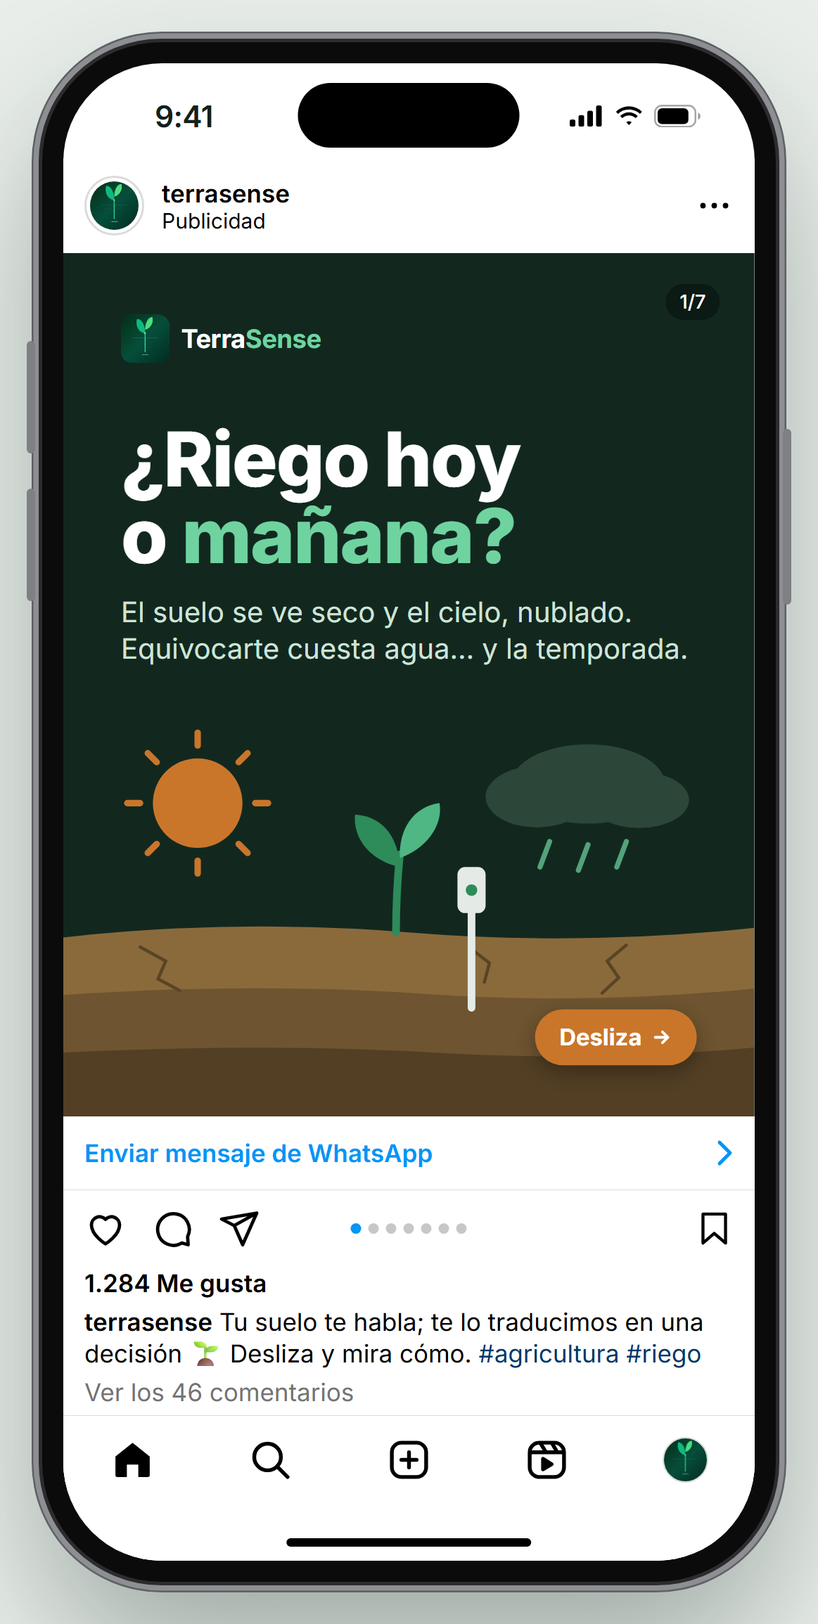
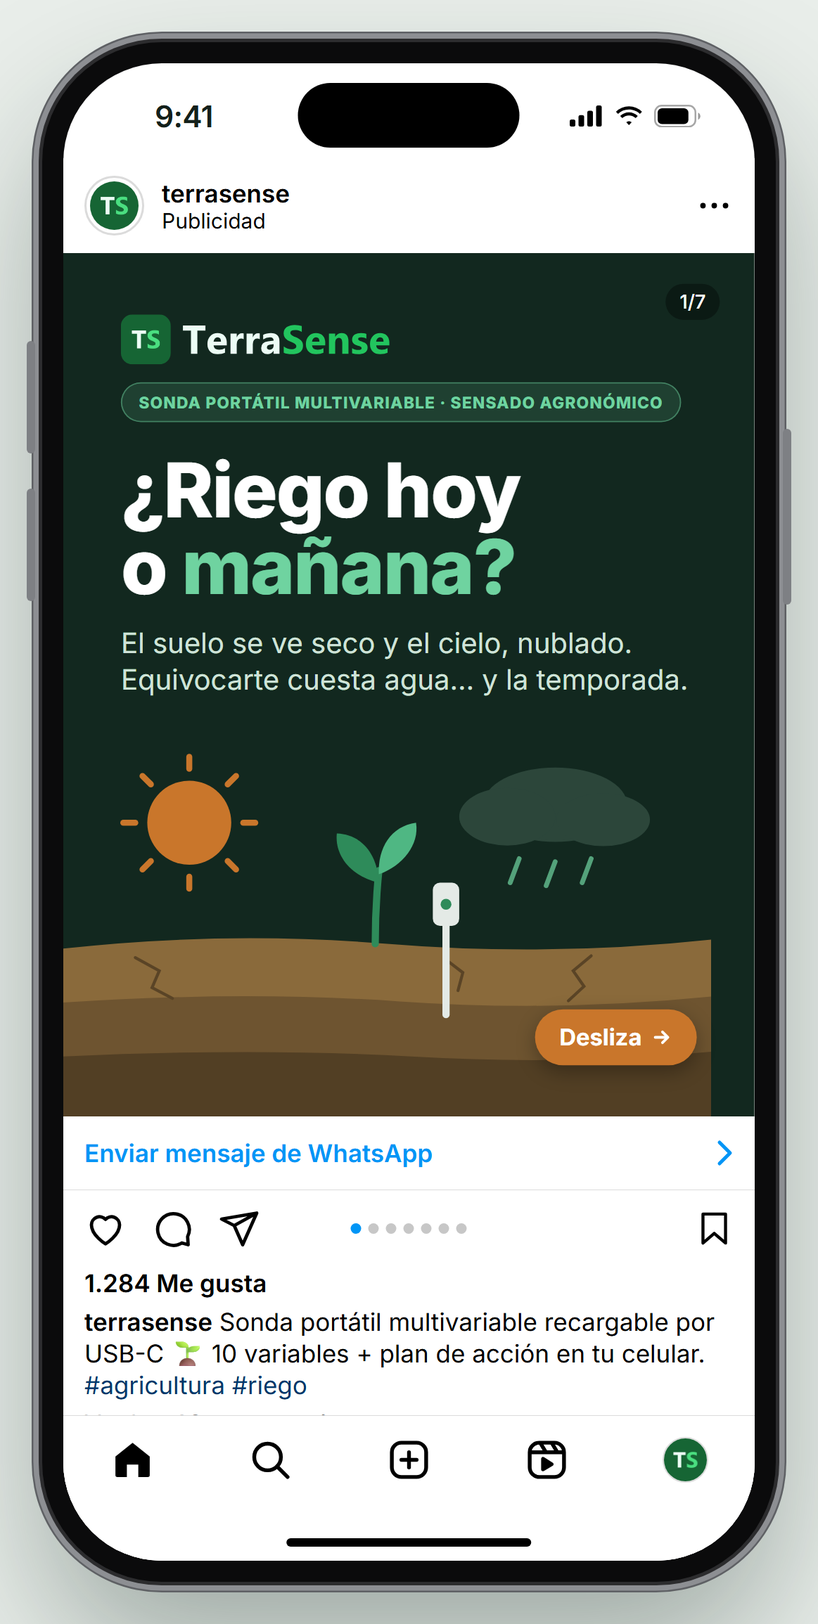
feat(comercializacion): carrusel y figuras actualizadas
Actualiza las láminas del carrusel de la Unidad 2 y agrega el logotipo
con nombre en versión oscura.

diff --git a/Comercializacion de Tecnologias/Unidad 2/Carrusel/carrusel.html b/Comercializacion de Tecnologias/Unidad 2/Carrusel/carrusel.html
@@ -6,7 +6,7 @@
 <link rel="preconnect" href="https://fonts.googleapis.com">
 <link href="https://fonts.googleapis.com/css2?family=Inter:wght@400;500;600;700;800&family=Roboto:wght@400;500;700;900&family=Roboto+Mono:wght@700&display=swap" rel="stylesheet">
 <!--
-  Carrusel publicitario «Del número a la decisión».
+  Carrusel publicitario «Del número a la decisión» — Sonda portátil multivariable para el sensado agronómico.
   Las pantallas de la app reproducen el paso «¿Qué tienes plantado?» de MeasureScreen
   (SpeciesPicker con sus 115 especies en siete grupos) y el plan de recomendaciones de
   MeasurementResultFlow, con los textos que entrega el motor agronómico real para esta
@@ -44,66 +44,74 @@
   .dark .sub, .green .sub { color: #CFE3D8; }
   .hl { color: var(--brote); } .hl-ocre { color: var(--ocre); } .hl-bosque { color: var(--bosque); }
   .brand { display: flex; align-items: center; gap: 18px; font-size: 40px; font-weight: 700; letter-spacing: -.5px; }
-  .brand img { width: 76px; height: 76px; border-radius: 18px; }
+  .brand img.ic-ts { width: 78px; height: 78px; border-radius: 18px; } .brand img.wm-ts { height: 48px; width: auto; }
   .brand .t { color: #fff; } .brand .s { color: var(--brote); }
 
   /* 1. Impacto */
-  .s1 .art { position: absolute; left: 0; right: 0; bottom: 0; height: 640px; }
+  .s1 .art { position: absolute; left: 0; right: 0; bottom: 0; height: 600px; }
+  .prod-pill { display: inline-block; margin-top: 28px; padding: 14px 26px; border-radius: 40px; background: rgba(111,211,160,.14); border: 2px solid rgba(111,211,160,.45); color: var(--brote); font-size: 25px; font-weight: 800; letter-spacing: 1.3px; text-transform: uppercase; align-self: flex-start; }
   .swipe { position: absolute; right: 90px; bottom: 80px; font-size: 36px; font-weight: 700; background: var(--ocre); color: #fff; padding: 22px 38px; border-radius: 60px; display: flex; align-items: center; gap: 14px; box-shadow: 0 10px 30px rgba(0,0,0,.3); }
 
-  /* 2. Problema: medidor genérico */
-  .meter { margin: 40px auto 0; width: 640px; background: #3A3F3D; border-radius: 48px; padding: 46px 46px 60px; box-shadow: 0 30px 60px rgba(0,0,0,.25); }
-  .lcd { background: #B9C7A8; border-radius: 20px; padding: 34px 40px; font-family: 'Roboto Mono', monospace; color: #26301F; box-shadow: inset 0 4px 12px rgba(0,0,0,.25); }
+  /* 2. Problema: medidor genérico vs nodo fijo */
+  .meter { margin: 18px auto 0; width: 610px; background: #3A3F3D; border-radius: 44px; padding: 34px 40px 42px; box-shadow: 0 26px 52px rgba(0,0,0,.25); }
+  .lcd { background: #B9C7A8; border-radius: 20px; padding: 24px 34px; font-family: 'Roboto Mono', monospace; color: #26301F; box-shadow: inset 0 4px 12px rgba(0,0,0,.25); }
   .lcd .ln { display: flex; justify-content: space-between; align-items: baseline; }
-  .lcd .ln + .ln { margin-top: 14px; border-top: 3px dashed rgba(38,48,31,.25); padding-top: 14px; }
-  .lcd .lab { font-size: 34px; font-weight: 700; }
-  .lcd .val { font-size: 92px; font-weight: 700; letter-spacing: -2px; }
-  .meter .btns { display: flex; justify-content: center; gap: 40px; margin-top: 40px; }
-  .meter .btns span { width: 90px; height: 90px; border-radius: 50%; background: #555B58; box-shadow: inset 0 -6px 0 rgba(0,0,0,.3); }
-  .s2 .h2 { margin-top: 70px; text-align: center; font-size: 120px; }
-  .s2 .sub { text-align: center; }
+  .lcd .ln + .ln { margin-top: 12px; border-top: 3px dashed rgba(38,48,31,.25); padding-top: 12px; }
+  .lcd .lab { font-size: 32px; font-weight: 700; }
+  .lcd .val { font-size: 80px; font-weight: 700; letter-spacing: -2px; }
+  .meter .btns { display: flex; justify-content: center; gap: 36px; margin-top: 26px; }
+  .meter .btns span { width: 70px; height: 70px; border-radius: 50%; background: #555B58; box-shadow: inset 0 -6px 0 rgba(0,0,0,.3); }
+  .s2 .h2 { margin-top: 34px; text-align: center; font-size: 100px; }
+  .s2 .sub { text-align: center; font-size: 37px; margin-top: 14px; }
+  .vs-cards { display: grid; grid-template-columns: 1fr 1fr; gap: 22px; margin-top: 28px; }
+  .vs-card { background: #fff; border: 2px solid var(--borde); border-left: 8px solid var(--bad); border-radius: 24px; padding: 20px 24px; }
+  .vs-card b { display: block; font-size: 27px; color: var(--bad); font-weight: 900; margin-bottom: 6px; }
+  .vs-card span { font-size: 24px; color: var(--texto2); line-height: 1.28; display: block; }
   .s2 .more { margin-top: auto; text-align: center; font-size: 34px; font-weight: 700; color: var(--bosque); }
 
   /* 3 y 4. La app dentro de un iPhone que sale por el borde inferior */
-  .s3 .h2, .s4 .h2 { font-size: 74px; }
+  .s3 .h2, .s4 .h2 { font-size: 68px; }
   .app-dock { position: absolute; top: 400px; width: 650px; height: 950px; }
   .app-dock > .iphone { transform: scale(1.5663); transform-origin: top left; }
   /* Escala menor: deja ver más de la pantalla (la lista de especies o el segundo paso del plan). */
-  .app-dock.wide { top: 380px; width: 500px; height: 970px; }
-  .app-dock.wide > .iphone { transform: scale(1.2); }
-  .callout { position: absolute; z-index: 4; background: var(--noche); color: #fff; font-size: 32px; font-weight: 700; line-height: 1.25; padding: 22px 28px; border-radius: 26px; box-shadow: 0 16px 40px rgba(18,40,31,.35); width: 330px; }
+  .app-dock.wide { top: 370px; width: 500px; height: 980px; }
+  .app-dock.wide > .iphone { transform: scale(1.18); }
+  .callout { position: absolute; z-index: 4; background: var(--noche); color: #fff; font-size: 27px; font-weight: 700; line-height: 1.28; padding: 22px 26px; border-radius: 26px; box-shadow: 0 16px 40px rgba(18,40,31,.35); width: 375px; }
   .callout b { color: var(--brote); }
-  .callout::after { content: ''; position: absolute; width: 28px; height: 28px; background: var(--noche); transform: rotate(45deg); }
-  .callout.left::after { right: -12px; top: 40px; }
-  .callout.right::after { left: -12px; top: 40px; }
+  .callout .tag-k { display: block; font-size: 19px; font-weight: 900; letter-spacing: 1.5px; text-transform: uppercase; color: var(--ocre); margin-bottom: 6px; }
+  .callout::after { content: ''; position: absolute; width: 26px; height: 26px; background: var(--noche); transform: rotate(45deg); }
+  .callout.left::after { right: -11px; top: 38px; }
+  .callout.right::after { left: -11px; top: 38px; }
 
-  /* 5. Beneficios */
-  .grid4 { display: grid; grid-template-columns: 1fr 1fr; gap: 26px; margin-top: 56px; }
-  .ben { background: rgba(255,255,255,.08); border: 2px solid rgba(111,211,160,.35); border-radius: 36px; padding: 34px; }
-  .ben .ic { width: 96px; height: 96px; border-radius: 28px; background: var(--brote); display: grid; place-items: center; }
-  .ben h3 { font-size: 42px; font-weight: 900; margin-top: 22px; line-height: 1.08; }
-  .ben p { font-size: 30px; margin-top: 12px; color: #CFE3D8; line-height: 1.3; }
+  /* 5. Beneficios (6 virtudes clave) */
+  .grid6 { display: grid; grid-template-columns: 1fr 1fr; gap: 20px; margin-top: 32px; }
+  .ben { background: rgba(255,255,255,.08); border: 2px solid rgba(111,211,160,.35); border-radius: 28px; padding: 22px 26px; display: flex; flex-direction: column; }
+  .ben-head { display: flex; align-items: center; gap: 16px; }
+  .ben .ic { width: 66px; height: 66px; border-radius: 20px; background: var(--brote); display: grid; place-items: center; flex: none; }
+  .ben h3 { font-size: 31px; font-weight: 900; line-height: 1.12; }
+  .ben p { font-size: 24px; margin-top: 10px; color: #CFE3D8; line-height: 1.28; }
 
   /* 6. Prueba */
-  .bars { margin-top: 70px; }
-  .bar { margin-bottom: 46px; }
-  .bar .lab { font-size: 36px; font-weight: 700; margin-bottom: 16px; }
-  .bar .lab small { font-weight: 400; color: var(--texto2); font-size: 30px; display: block; margin-top: 4px; }
-  .bar .track { height: 110px; background: #E1E8E2; border-radius: 26px; overflow: hidden; }
-  .bar .fill { height: 100%; border-radius: 26px; display: flex; align-items: center; justify-content: flex-end; padding-right: 30px; font-size: 48px; font-weight: 900; color: #fff; }
-  .note { font-size: 28px; color: var(--texto2); line-height: 1.35; }
-  .badges { display: flex; gap: 22px; margin-top: auto; }
-  .badge { flex: 1; text-align: center; background: var(--tarjeta); border: 2px solid var(--borde); border-radius: 30px; padding: 30px 14px; }
-  .badge b { display: block; font-size: 50px; font-weight: 900; color: var(--bosque); }
-  .badge span { font-size: 28px; color: var(--texto2); }
+  .bars { margin-top: 36px; }
+  .bar { margin-bottom: 22px; }
+  .bar .lab { font-size: 29px; font-weight: 700; margin-bottom: 8px; display: flex; justify-content: space-between; align-items: baseline; }
+  .bar .lab small { font-weight: 500; color: var(--texto2); font-size: 23px; }
+  .bar .track { height: 74px; background: #E1E8E2; border-radius: 20px; overflow: hidden; }
+  .bar .fill { height: 100%; border-radius: 20px; display: flex; align-items: center; justify-content: flex-end; padding-right: 24px; font-size: 36px; font-weight: 900; color: #fff; }
+  .note { font-size: 24px; color: var(--texto2); line-height: 1.32; margin-top: 8px; }
+  .badges { display: flex; gap: 20px; margin-top: auto; }
+  .badge { flex: 1; text-align: center; background: var(--tarjeta); border: 2px solid var(--borde); border-radius: 26px; padding: 22px 12px; }
+  .badge b { display: block; font-size: 42px; font-weight: 900; color: var(--bosque); }
+  .badge span { font-size: 24px; color: var(--texto2); }
 
   /* 7. Acción */
   .s7 { align-items: center; text-align: center; justify-content: center; }
-  .s7 .logo { width: 720px; margin-bottom: 70px; }
-  .s7 .h2 { font-size: 112px; }
-  .cta { margin-top: 70px; display: inline-flex; align-items: center; gap: 24px; background: #25D366; color: #0B2A17; font-size: 50px; font-weight: 900; padding: 38px 64px; border-radius: 80px; box-shadow: 0 16px 40px rgba(0,0,0,.35); }
-  .web { margin-top: 40px; font-size: 42px; color: #CFE3D8; } .web b { color: #fff; }
-  .price { margin-top: 80px; font-size: 34px; color: var(--brote); font-weight: 700; letter-spacing: 1px; }
+  .s7 .brand-hero { display: flex; align-items: center; justify-content: center; gap: 28px; margin-bottom: 42px; } .s7 .brand-hero .ic-ts { width: 124px; height: 124px; border-radius: 28px; box-shadow: 0 12px 30px rgba(0,0,0,.35); } .s7 .brand-hero .wm-ts { height: 78px; width: auto; }
+  .s7 .s7-pill { padding: 12px 26px; border-radius: 40px; background: rgba(111,211,160,.14); border: 2px solid rgba(111,211,160,.4); color: var(--brote); font-size: 23px; font-weight: 800; letter-spacing: 1.3px; text-transform: uppercase; margin-bottom: 32px; }
+  .s7 .h2 { font-size: 104px; }
+  .cta { margin-top: 48px; display: inline-flex; align-items: center; gap: 24px; background: #25D366; color: #0B2A17; font-size: 46px; font-weight: 900; padding: 32px 56px; border-radius: 80px; box-shadow: 0 16px 40px rgba(0,0,0,.35); }
+  .web { margin-top: 30px; font-size: 38px; color: #CFE3D8; } .web b { color: #fff; }
+  .price { margin-top: 46px; font-size: 27px; color: var(--brote); font-weight: 800; letter-spacing: 1px; line-height: 1.45; }
 
   /* ================= iPhone (medidas lógicas de un iPhone 15: 393 x 852 pt) ================= */
   .iphone { width: 417px; height: 876px; border-radius: 68px; padding: 12px; position: relative;
@@ -318,8 +326,9 @@
   <!-- 1. Impacto -->
   <section class="slide dark s1">
     <div class="counter">1/7</div>
-    <div class="brand"><img src="../Figuras/logo_icono.png" alt=""><span><span class="t">Terra</span><span class="s">Sense</span></span></div>
-    <div class="h1" style="margin-top:90px">¿Riego hoy<br>o <span class="hl">mañana?</span></div>
+    <div class="brand"><img class="ic-ts" src="../Figuras/logo_icono.png" alt="TS"><img class="wm-ts" src="../../../Logo/Logo/terrasense-wordmark-dark.svg" alt="TerraSense"></div>
+    <div class="prod-pill">Sonda portátil multivariable · Sensado agronómico</div>
+    <div class="h1" style="margin-top:46px">¿Riego hoy<br>o <span class="hl">mañana?</span></div>
     <p class="sub">El suelo se ve seco y el cielo, nublado.<br>Equivocarte cuesta agua… y la temporada.</p>
     <svg class="art" viewBox="0 0 1080 640" preserveAspectRatio="xMidYMax slice" aria-hidden="true">
       <g opacity=".9"><ellipse cx="820" cy="120" rx="120" ry="62" fill="#2F4A3E"/><ellipse cx="740" cy="140" rx="80" ry="48" fill="#2F4A3E"/><ellipse cx="900" cy="145" rx="78" ry="44" fill="#2F4A3E"/>
@@ -338,65 +347,89 @@
   <!-- 2. Problema -->
   <section class="slide light s2">
     <div class="counter">2/7</div>
-    <div class="kicker">Lo que ves hoy</div>
+    <div class="kicker">Lo que pasa con las opciones tradicionales</div>
     <div class="meter">
       <div class="lcd"><div class="ln"><span class="lab">HUMEDAD</span><span class="val">5%</span></div><div class="ln"><span class="lab">T° SUELO</span><span class="val">17°C</span></div></div>
       <div class="btns"><span></span><span></span></div>
     </div>
     <div class="h2">¿Y ahora <span class="hl-ocre">qué?</span></div>
-    <p class="sub">Un medidor común te da números.<br>La decisión, y el riesgo, siguen siendo tuyos.</p>
-    <div class="more">Desliza y mira la diferencia →</div>
+    <p class="sub">Un número suelto no te dice cómo interpretarlo ni qué hacer hoy.</p>
+    <div class="vs-cards">
+      <div class="vs-card"><b>Medidores comunes (Hanna / Bluelab)</b><span>Solo entregan 2 o 3 datos crudos, sin interpretación agronómica, y usan pilas desechables.</span></div>
+      <div class="vs-card"><b>Nodos fijos de telemetría</b><span>Quedan enterrados en un solo punto del campo, exigen instalación y cobran suscripción mensual.</span></div>
+    </div>
+    <div class="more">Desliza y mira cómo lo resuelve TerraSense →</div>
   </section>
 
   <!-- 3. Giro: el resultado -->
   <section class="slide light s3">
     <div class="counter">3/7</div>
-    <div class="kicker">Con TerraSense, primero tu cultivo</div>
-    <div class="h2">Le dices qué tienes plantado: <span class="hl-bosque">115 especies.</span></div>
+    <div class="kicker">Etapa fenológica + Especie + Pre-siembra</div>
+    <div class="h2">Considera tu etapa y especie: <span class="hl-bosque">115 cultivos.</span></div>
     <div class="app-dock wide" data-app="app-species" style="left:500px"></div>
-    <div class="callout left" style="left:90px;top:1000px">Del <b>tomate</b> al <b>palto</b>: hortalizas, frutales, berries, cereales y más.</div>
+    <div class="callout left" style="left:70px;top:490px"><span class="tag-k">En Pre-siembra</span>Sin pedirte especie, evalúa tu suelo y <b>te recomienda qué cultivos plantar</b>.</div>
+    <div class="callout left" style="left:70px;top:860px"><span class="tag-k">Vegetativo a Cosecha</span>Ajusta los umbrales a tu etapa y especie: del <b>tomate</b> al <b>palto</b>, berries y cereales.</div>
   </section>
 
   <!-- 4. Giro: qué hacer -->
   <section class="slide light s4">
     <div class="counter">4/7</div>
-    <div class="kicker">Y te dice por dónde empezar</div>
-    <div class="h2">Suelo seco, lluvia mañana: <span class="hl-bosque">te arma un plan.</span></div>
-    <div class="app-dock wide" data-app="app-plan" style="left:80px"></div>
-    <div class="callout right" style="right:60px;top:1150px">Cruza tu medición con el <b>pronóstico</b> de tu campo.</div>
+    <div class="kicker">Feedback, plan de acción, clima e historial</div>
+    <div class="h2">No solo mide: <span class="hl-bosque">te arma un plan de acción.</span></div>
+    <div class="app-dock wide" data-app="app-plan" style="left:70px"></div>
+    <div class="callout right" style="right:55px;top:450px"><span class="tag-k">Feedback e interpretación</span>Te explica cómo interpretar las <b>10 variables</b> y qué hacer hoy y después.</div>
+    <div class="callout right" style="right:55px;top:760px"><span class="tag-k">Clima real y actualizado</span>Cruza tu suelo con el clima actual y el <b>pronóstico a 5 días</b> de tu campo.</div>
+    <div class="callout right" style="right:55px;top:1055px"><span class="tag-k">App móvil con historial</span>Guarda el <b>historial de mediciones con GPS</b>, fecha, etapa y especie (incluso sin señal).</div>
   </section>
 
   <!-- 5. Beneficios -->
   <section class="slide green s5">
     <div class="counter">5/7</div>
-    <div class="kicker">Por qué TerraSense</div>
-    <div class="h2" style="font-size:78px">Todo para decidir,<br>en el mismo campo</div>
-    <div class="grid4">
-      <div class="ben"><div class="ic"><svg width="56" height="56" viewBox="0 0 24 24" fill="none" stroke="#12281F" stroke-width="2.2" stroke-linecap="round"><path d="M2 8.5a15 15 0 0 1 20 0M5.5 12a10 10 0 0 1 13 0M9 15.5a5 5 0 0 1 6 0"/><circle cx="12" cy="19" r="1.3" fill="#12281F"/><path d="M3 3l18 18"/></svg></div>
-        <h3>Funciona sin señal</h3><p>Mide, interpreta y guarda aunque no haya cobertura.</p></div>
-      <div class="ben"><div class="ic"><svg width="56" height="56" viewBox="0 0 24 24" fill="none" stroke="#12281F" stroke-width="2.2" stroke-linecap="round"><path d="M12 3v18M7 8v8M17 6v12M2 11v2M22 10v4"/></svg></div>
-        <h3>10 variables</h3><p>7 del suelo y 3 del ambiente, en un solo equipo.</p></div>
-      <div class="ben"><div class="ic"><svg width="56" height="56" viewBox="0 0 24 24" fill="none" stroke="#12281F" stroke-width="2.2" stroke-linecap="round" stroke-linejoin="round"><path d="M12 21V11"/><path d="M12 13c-4 0-6-3-6-7 4 0 6 3 6 7Z"/><path d="M12 11c0-4 2-7 6-7 0 4-2 7-6 7Z"/></svg></div>
-        <h3>Tu cultivo y su etapa</h3><p>115 especies, de la pre-siembra a la cosecha, con un plan de acción.</p></div>
-      <div class="ben"><div class="ic"><svg width="56" height="56" viewBox="0 0 24 24" fill="none" stroke="#12281F" stroke-width="2.2" stroke-linecap="round"><rect x="3" y="6" width="18" height="12" rx="2"/><path d="M3 10h18M7 15h4"/></svg></div>
-        <h3>Pago único</h3><p>Sin mensualidades. Mediciones ilimitadas.</p></div>
+    <div class="kicker">Por qué preferirnos frente a la competencia</div>
+    <div class="h2" style="font-size:72px">6 razones que hacen único<br>a TerraSense en tu campo</div>
+    <div class="grid6">
+      <div class="ben">
+        <div class="ben-head"><div class="ic"><svg width="42" height="42" viewBox="0 0 24 24" fill="none" stroke="#12281F" stroke-width="2.3" stroke-linecap="round"><path d="M12 2C8 2 5 5 5 9c0 5.2 7 13 7 13s7-7.8 7-13c0-4-3-7-7-7Z"/><circle cx="12" cy="9" r="2.5"/></svg></div><h3>Portátil (no es nodo fijo)</h3></div>
+        <p>Haz múltiples lecturas al día en distintos sectores de tu campo a costo marginal $0.</p>
+      </div>
+      <div class="ben">
+        <div class="ben-head"><div class="ic"><svg width="42" height="42" viewBox="0 0 24 24" fill="none" stroke="#12281F" stroke-width="2.3" stroke-linecap="round" stroke-linejoin="round"><rect x="2" y="7" width="16" height="10" rx="2"/><path d="M22 11v2"/><path d="M11 10l-3 3h4l-3 3"/></svg></div><h3>Recargable USB-C</h3></div>
+        <p>Batería LiPo integrada (1 mes de uso). No usa pilas desechables como Hanna o Bluelab.</p>
+      </div>
+      <div class="ben">
+        <div class="ben-head"><div class="ic"><svg width="42" height="42" viewBox="0 0 24 24" fill="none" stroke="#12281F" stroke-width="2.3" stroke-linecap="round"><path d="M12 3v18M7 8v8M17 6v12M2 11v2M22 10v4"/></svg></div><h3>10 variables + Feedback</h3></div>
+        <p>7 de suelo + 3 de ambiente (y DPV), con plan de acción para saber cómo interpretarlas.</p>
+      </div>
+      <div class="ben">
+        <div class="ben-head"><div class="ic"><svg width="42" height="42" viewBox="0 0 24 24" fill="none" stroke="#12281F" stroke-width="2.3" stroke-linecap="round" stroke-linejoin="round"><path d="M12 21V11"/><path d="M12 13c-4 0-6-3-6-7 4 0 6 3 6 7Z"/><path d="M12 11c0-4 2-7 6-7 0 4-2 7-6 7Z"/></svg></div><h3>Etapa, especie y pre-siembra</h3></div>
+        <p>Recomienda qué plantar en pre-siembra y ajusta rangos a tu especie y etapa fenológica.</p>
+      </div>
+      <div class="ben">
+        <div class="ben-head"><div class="ic"><svg width="42" height="42" viewBox="0 0 24 24" fill="none" stroke="#12281F" stroke-width="2.3" stroke-linecap="round"><path d="M7 15a4 4 0 0 1-.5-8A6 6 0 0 1 18 8.5 3.5 3.5 0 0 1 17.5 15Z"/><path d="M8 19h8M12 15v6"/></svg></div><h3>Clima real + Historial App</h3></div>
+        <p>Cruza el pronóstico actualizado a 5 días y guarda el historial con GPS aunque no haya señal.</p>
+      </div>
+      <div class="ben">
+        <div class="ben-head"><div class="ic"><svg width="42" height="42" viewBox="0 0 24 24" fill="none" stroke="#12281F" stroke-width="2.3" stroke-linecap="round"><rect x="3" y="6" width="18" height="12" rx="2"/><path d="M3 10h18M7 15h4"/></svg></div><h3>Pago único ($467.463)</h3></div>
+        <p>Sin mensualidades ni cobros ocultos. Más completo y económico que sus competidores.</p>
+      </div>
     </div>
-    <p class="sub" style="margin-top:44px;font-size:36px">Con señal, suma el clima de hoy y de los próximos cinco días a cada recomendación.</p>
   </section>
 
   <!-- 6. Prueba -->
   <section class="slide light s6">
     <div class="counter">6/7</div>
-    <div class="kicker">Haz la cuenta</div>
-    <div class="h2">En 3 años, te sale más barato que el laboratorio</div>
+    <div class="kicker">Haz la cuenta frente a la competencia</div>
+    <div class="h2" style="font-size:74px">Más completo hoy y más barato en 3 años</div>
     <div class="bars">
-      <div class="bar"><div class="lab">Análisis de laboratorio<small>4 muestras al año</small></div><div class="track"><div class="fill" style="width:100%;background:var(--ocre)">$600.000</div></div></div>
-      <div class="bar"><div class="lab">TerraSense<small>Mediciones ilimitadas</small></div><div class="track"><div class="fill" style="width:82%;background:var(--bosque)">$492.453</div></div></div>
-      <p class="note">Costo acumulado a 3 años, en pesos de 2027. El laboratorio sigue siendo clave para un análisis químico completo; TerraSense te acompaña en cada decisión entre un análisis y otro.</p>
+      <div class="bar"><div class="lab"><span>Análisis de laboratorio (3 años)</span><small>4 muestras/año · Espera de 5 a 15 días</small></div><div class="track"><div class="fill" style="width:100%;background:var(--ocre)">$600.000</div></div></div>
+      <div class="bar"><div class="lab"><span>Bluelab Pulse (equipo a pilas)</span><small>Solo 3 variables · Sin pH ni plan de acción</small></div><div class="track"><div class="fill" style="width:90%;background:#6E7D75">$538.990</div></div></div>
+      <div class="bar"><div class="lab"><span>Hanna HI9814 (equipo a pilas)</span><small>Solo 3 variables · Sin humedad ni clima</small></div><div class="track"><div class="fill" style="width:82%;background:#6E7D75">$491.827</div></div></div>
+      <div class="bar"><div class="lab"><span>TerraSense (USB-C + 10 variables + Plan)</span><small>Equipo $467.463 · Costo total a 3 años: $492.453</small></div><div class="track"><div class="fill" style="width:78%;background:var(--bosque)">$467.463</div></div></div>
+      <p class="note">Precios en Chile con IVA incluido. En 3 años de uso ($492.453 incluyendo kit de mantención), TerraSense cuesta menos que el laboratorio ($600.000) y entrega lecturas diarias ilimitadas en todo tu campo.</p>
     </div>
     <div class="badges">
-      <div class="badge"><b>6 meses</b><span>de garantía</span></div>
-      <div class="badge"><b>10 días</b><span>para arrepentirte</span></div>
+      <div class="badge"><b>6 meses</b><span>de garantía legal</span></div>
+      <div class="badge"><b>10 días</b><span>de retracto (SERNAC)</span></div>
       <div class="badge"><b>Gratis</b><span>despacho a todo Chile</span></div>
     </div>
   </section>
@@ -404,11 +437,12 @@
   <!-- 7. Acción -->
   <section class="slide dark s7">
     <div class="counter">7/7</div>
-    <img class="logo" src="../../../Logo/Logo/terrasense-dark.svg" alt="TerraSense">
+    <div class="brand-hero"><img class="ic-ts" src="../Figuras/logo_icono.png" alt="TS"><img class="wm-ts" src="../../../Logo/Logo/terrasense-wordmark-dark.svg" alt="TerraSense"></div>
+    <div class="s7-pill">Sonda portátil multivariable para el sensado agronómico</div>
     <div class="h2">Mide hoy.<br><span class="hl">Decide hoy.</span></div>
     <div class="cta"><svg width="56" height="56" viewBox="0 0 24 24"><path d="M12 3a9 9 0 0 0-7.8 13.5L3 21l4.6-1.2A9 9 0 1 0 12 3Z" fill="#0B2A17"/><path d="M8.5 9.5c.5 2.5 3 5 5.5 5.5l1.2-1.4 2 1-.4 1.6c-4 .4-9.2-4.8-8.8-8.8l1.6-.4 1 2Z" fill="#25D366"/></svg>Escríbenos por WhatsApp</div>
     <p class="web">o visita <b>terrasense.cl</b></p>
-    <p class="price">$467.463 · PAGO ÚNICO · DESPACHO INCLUIDO</p>
+    <p class="price">$467.463 IVA INCL. · PAGO ÚNICO · RECARGABLE USB-C<br>10 VARIABLES + PLAN DE ACCIÓN · DESPACHO INCLUIDO</p>
   </section>
 </template>
 
@@ -431,7 +465,7 @@
     </div>
     <div class="p-txt">
       <div><b>1.284 Me gusta</b></div>
-      <div style="margin-top:4px"><b>terrasense</b> Tu suelo te habla; te lo traducimos en una decisión 🌱 Desliza y mira cómo. <span class="tag">#agricultura #riego</span></div>
+      <div style="margin-top:4px"><b>terrasense</b> Sonda portátil multivariable recargable por USB-C 🌱 10 variables + plan de acción en tu celular. <span class="tag">#agricultura #riego</span></div>
       <div class="gr">Ver los 46 comentarios</div>
       <div class="tm">Hace 2 horas</div>
     </div>
